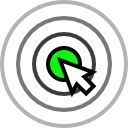
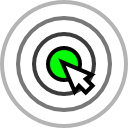
small change in pointer design

Changed region(s): [[0.4375, 0.4375, 0.75, 0.75]]

diff --git a/chrome/background/js/icon/pointerLayerDrawer.js b/chrome/background/js/icon/pointerLayerDrawer.js
@@ -39,23 +39,23 @@ define([], function() {
 	function render(millis) {
 		var alpha = calcAlpha(millis);
 		
-		context.lineWidth = 3;
+		context.lineWidth = 3.33;
 		context.strokeStyle = "rgba(0,0,0," + alpha + ")";
 		context.fillStyle = "rgba(255,255,255," + alpha + ")";
 
 		context.scale(size/32, size/32);	//pointer is defined in a 32x32 grid, where top is in the origin
-		context.translate(14, 14);	//move origin to center (not exavtly to center: top of pointer should cover the middle)
+		context.translate(15, 15);	//move origin to center (not exavtly to center: top of pointer should cover the middle)
 		context.rotate(-45 * Math.PI/180);	//45 degrees rotation
-		context.scale(0.66,0.66);	//we actually use the 66% of the size of the pointer (see icon32On)
+		context.scale(.6,.6);	//we actually use the 60% of the size of the pointer (see icon32On)
 
 		context.beginPath();
 		context.moveTo(0,0);
-		context.lineTo(-11,24);
-		context.lineTo(-4,22);
+		context.lineTo(-10,25);
+		context.lineTo(-4,24);
 		context.lineTo(-4,32);
 		context.lineTo(4,32);
-		context.lineTo(4,22);
-		context.lineTo(11,24);
+		context.lineTo(4,24);
+		context.lineTo(10,25);
 		context.closePath();
 		context.fill();
 		context.stroke();

diff --git a/chrome/background/js/icon/loadingLayerDrawer.js b/chrome/background/js/icon/loadingLayerDrawer.js
@@ -64,7 +64,7 @@ define([], function() {
 	}
 	drawer.setOff = function() {
 		if(start < end) return;	//animation already finished/happening
-		end = Date.now() + fadeLength;
+		end = Date.now();
 	}
 
 	/** @param millis the time at when the animation is rendered
